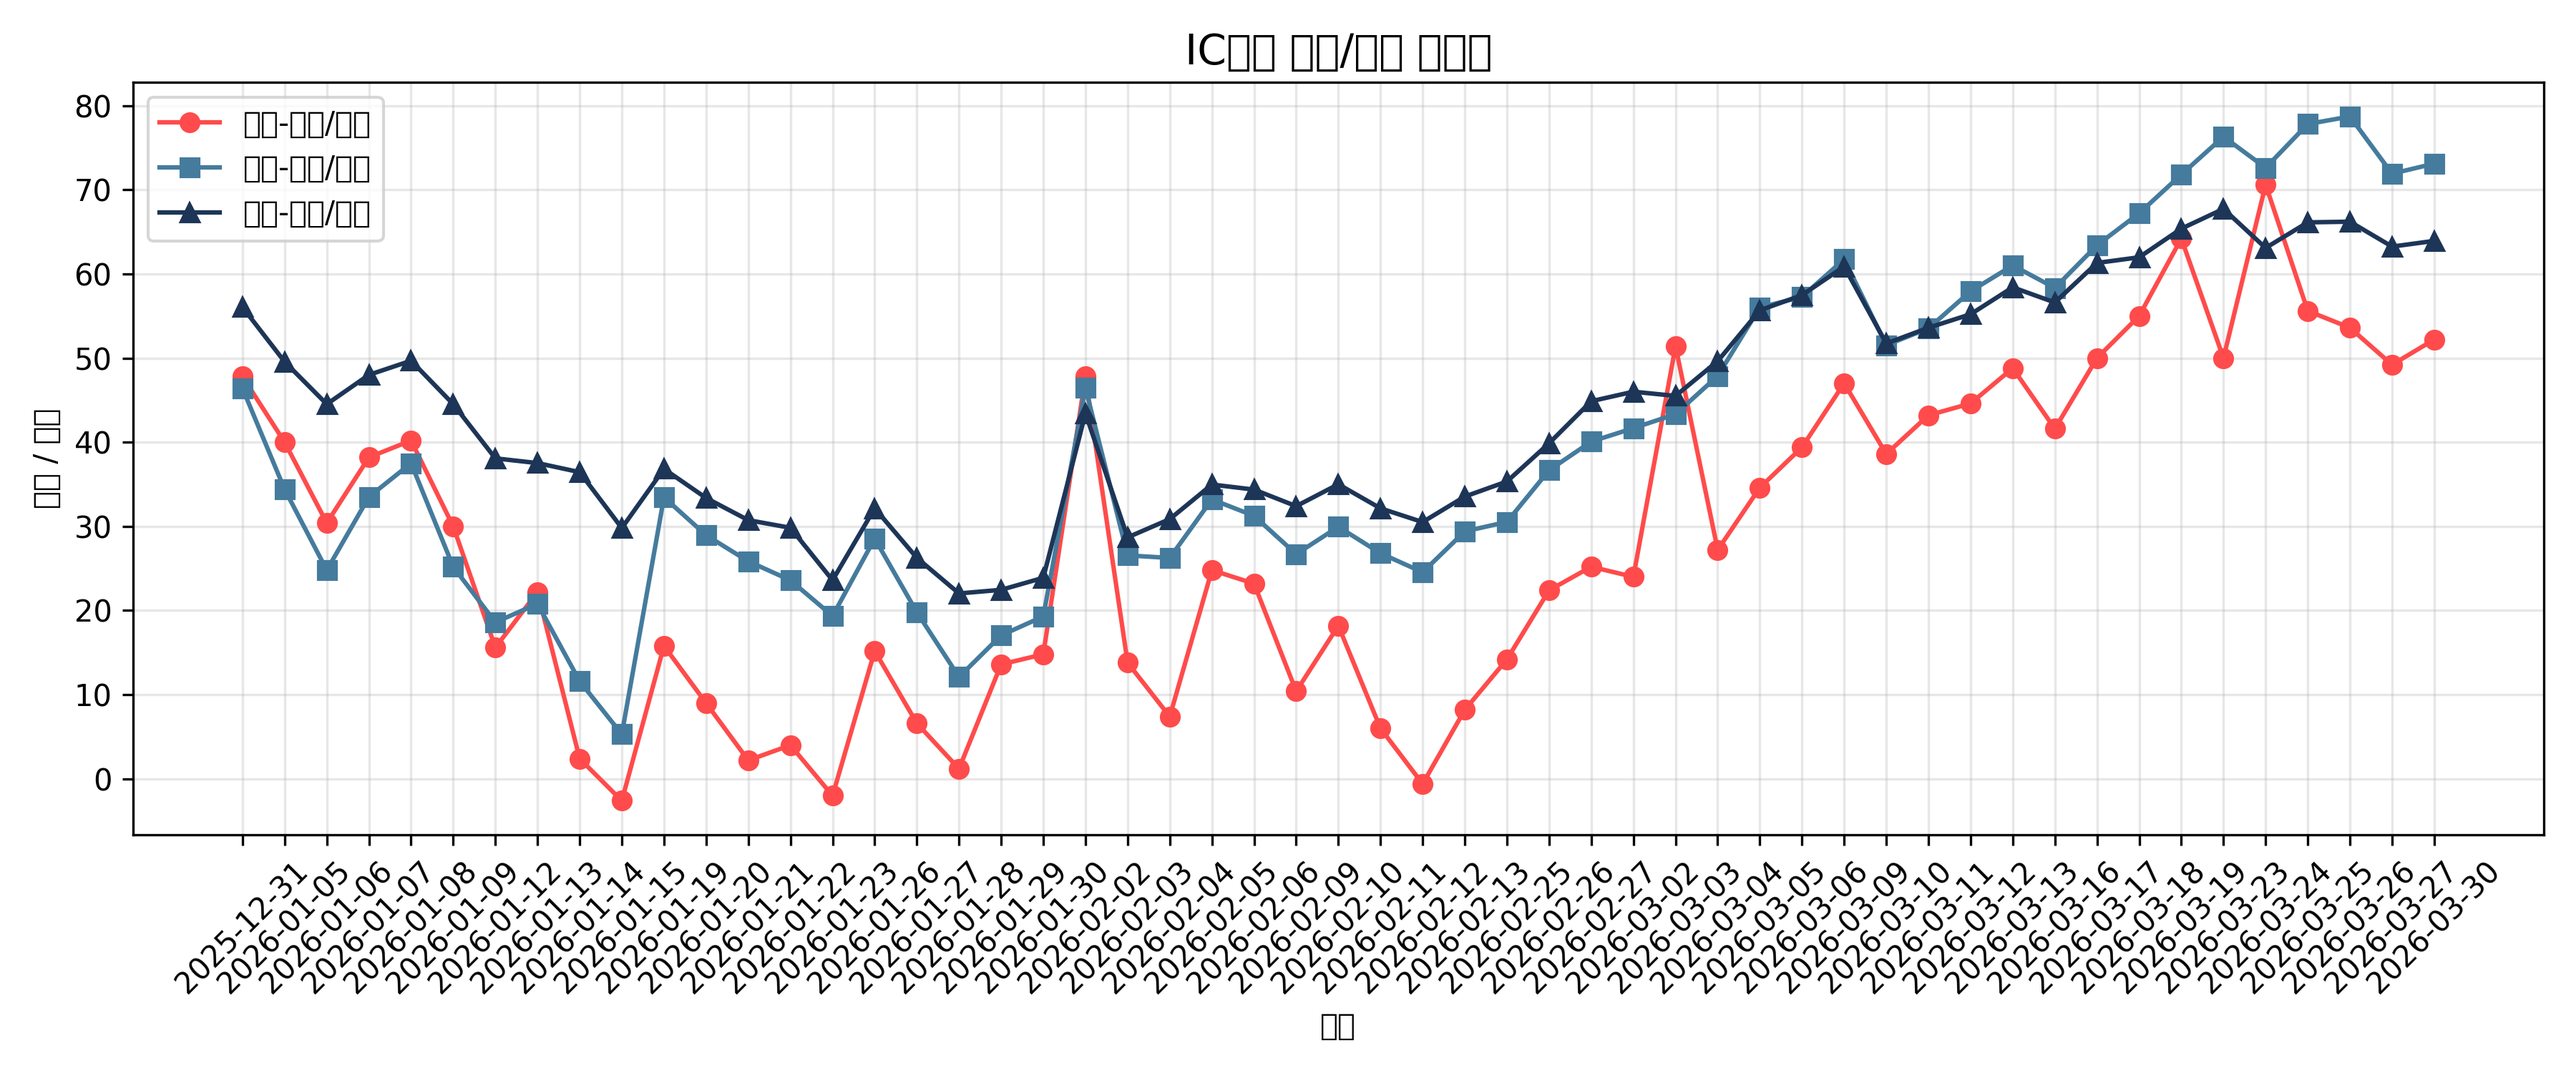
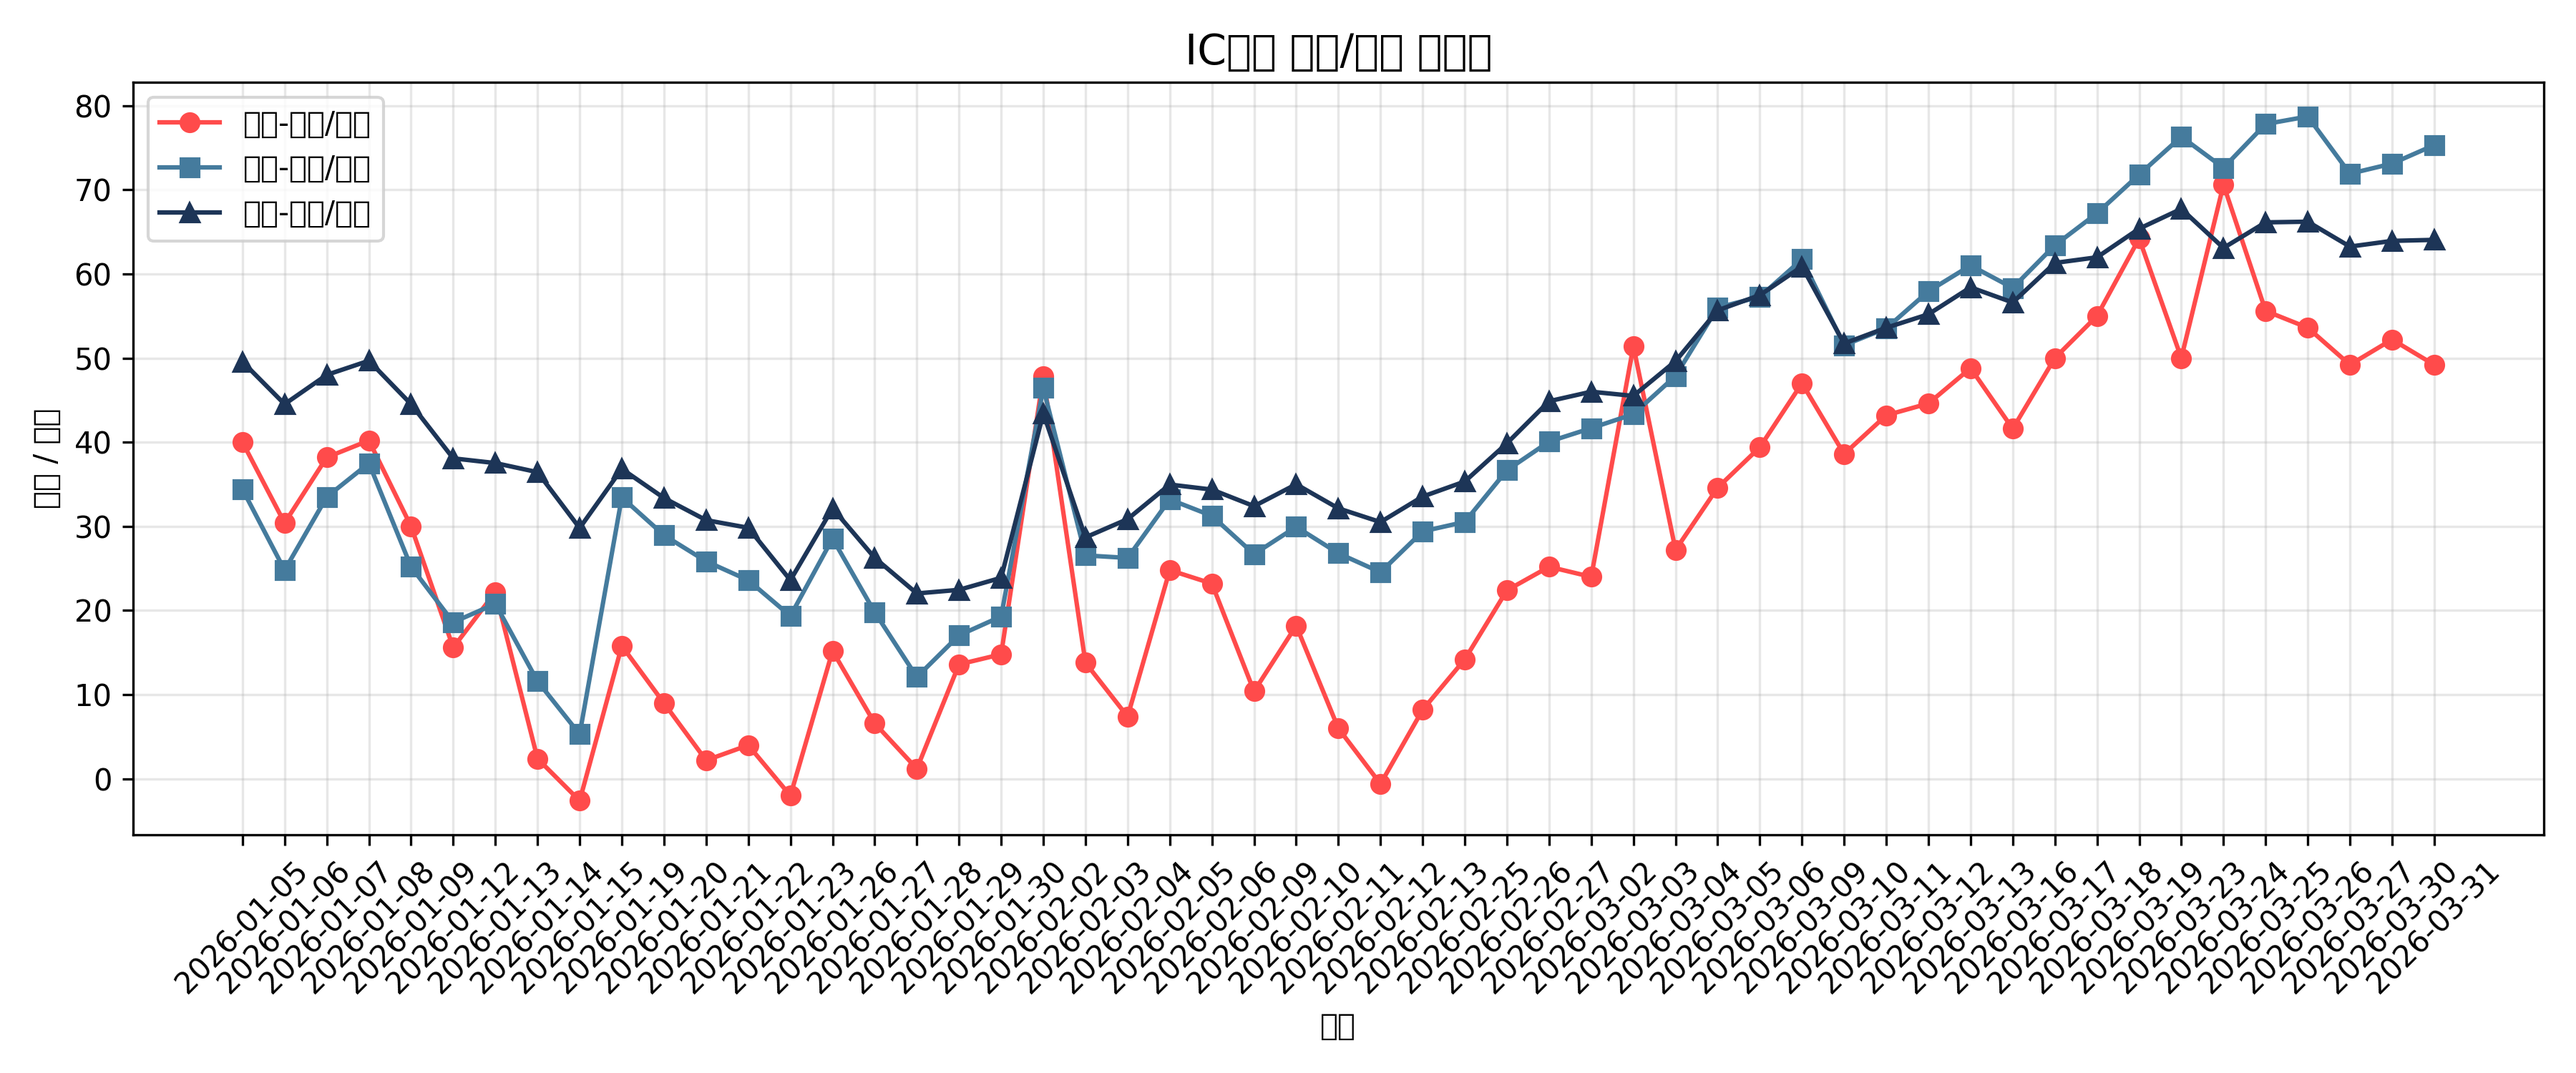
deploy: 4d1bb30b7b0bf8623cc214497fc979b4192c654b

Changed region(s): [[0.0933, 0.092, 0.9644, 0.7667], [0.0933, 0.7973, 0.9644, 0.8587], [0.3733, 0.8587, 0.4044, 0.8893]]

diff --git a/index.html b/index.html
@@ -84,19 +84,19 @@
 <body>
     <div class="container">
         <h1>IC期货基差监控</h1>
-        <div class="last-updated">最后更新：2026-03-30 17:55:29</div>
+        <div class="last-updated">最后更新：2026-03-31 17:40:00</div>
         
         <div class="stats">
             <div class="stat-card">
-                <div class="stat-value">52.2</div>
+                <div class="stat-value">49.2</div>
                 <div class="stat-label">当月-下月/月差</div>
             </div>
             <div class="stat-card">
-                <div class="stat-value">73.1</div>
+                <div class="stat-value">75.3</div>
                 <div class="stat-label">当月-当季/月差</div>
             </div>
             <div class="stat-card">
-                <div class="stat-value">63.92</div>
+                <div class="stat-value">64.04</div>
                 <div class="stat-label">当月-下季/月差</div>
             </div>
         </div>
@@ -114,14 +114,6 @@
                 <th>当月-下月/月差</th>
                 <th>当月-当季/月差</th>
                 <th>当月-下季/月差</th>
-            </tr>
-
-            <tr>
-                <td>2026-03-19</td>
-                <td>IC2603</td>
-                <td>64.2</td>
-                <td>71.8</td>
-                <td>65.37</td>
             </tr>
 
             <tr>
@@ -170,6 +162,14 @@
                 <td>52.2</td>
                 <td>73.1</td>
                 <td>63.92</td>
+            </tr>
+
+            <tr>
+                <td>2026-03-31</td>
+                <td>IC2604</td>
+                <td>49.2</td>
+                <td>75.3</td>
+                <td>64.04</td>
             </tr>
 
         </table>
